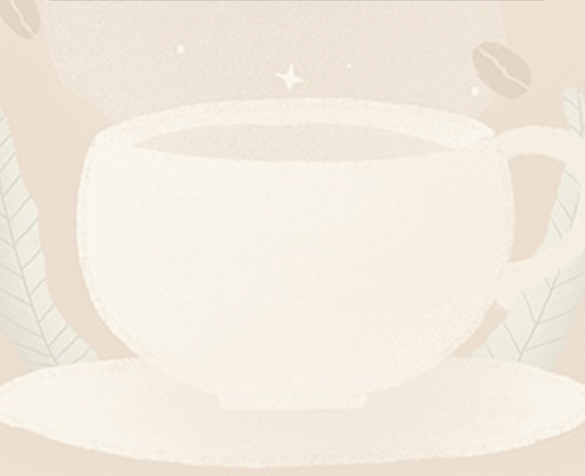
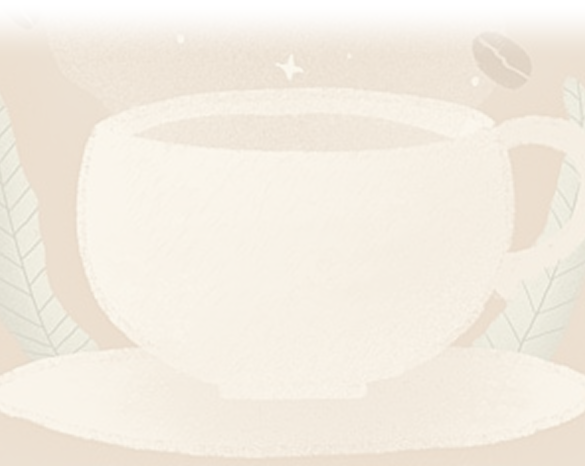
FIx Login Background

Changed region(s): [[0.0, 0.0, 1.0, 0.0901]]

diff --git a/Front-End/src/pages/admin/LoginPage.tsx b/Front-End/src/pages/admin/LoginPage.tsx
@@ -63,7 +63,7 @@ export const LoginPage: React.FC = () => {
   };
 
   return (
-    <div className="min-h-screen bg-[#EDE4D7] bg-[url('/login-bg.png')] bg-cover bg-bottom bg-no-repeat text-[#22201C] w-[390px] max-w-[390px] mx-auto relative flex flex-col font-['Be_Vietnam_Pro'] antialiased shadow-sm select-none overflow-hidden">
+    <div className="min-h-screen bg-[#FAF6EE] text-[#22201C] w-[390px] max-w-[390px] mx-auto relative flex flex-col font-['Be_Vietnam_Pro'] antialiased shadow-sm select-none overflow-hidden">
       {/* Header đỏ chuẩn Figma: cao 88px, Tiêu đề Đăng nhập căn giữa */}
       <header className="bg-[#D1342C] text-white h-[88px] px-[16px] flex items-center justify-center sticky top-0 z-30 flex-shrink-0">
         <h1 className="text-[24px] font-bold tracking-tight text-white leading-none">
@@ -175,8 +175,14 @@ export const LoginPage: React.FC = () => {
           </button>
         </form>
 
-        {/* Khoảng trống để lộ hình nền ly cà phê minh họa chuẩn Figma (Bảng 49 STT 7) */}
-        <div className="w-full flex-1 min-h-[220px] pointer-events-none" />
+        {/* Hình nền ly cà phê phía dưới chuẩn Figma (Bảng 49 STT 7) */}
+        <div className="w-[calc(100%+40px)] -mx-[20px] pointer-events-none select-none mt-auto flex-shrink-0">
+          <img
+            src="/login-cup.png"
+            alt="Hình nền ly cà phê"
+            className="w-full object-bottom block"
+          />
+        </div>
       </main>
 
       {/* Popup lỗi đăng nhập không thành công (Bảng 53) */}
